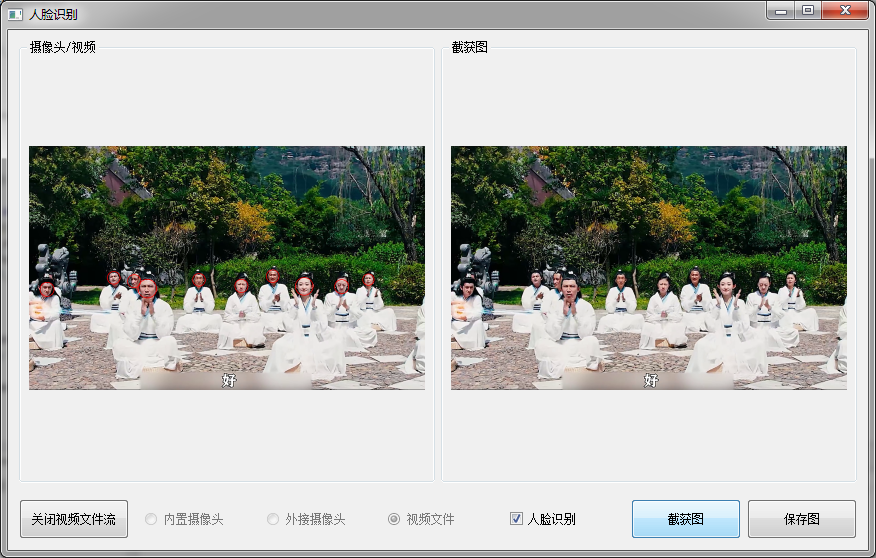
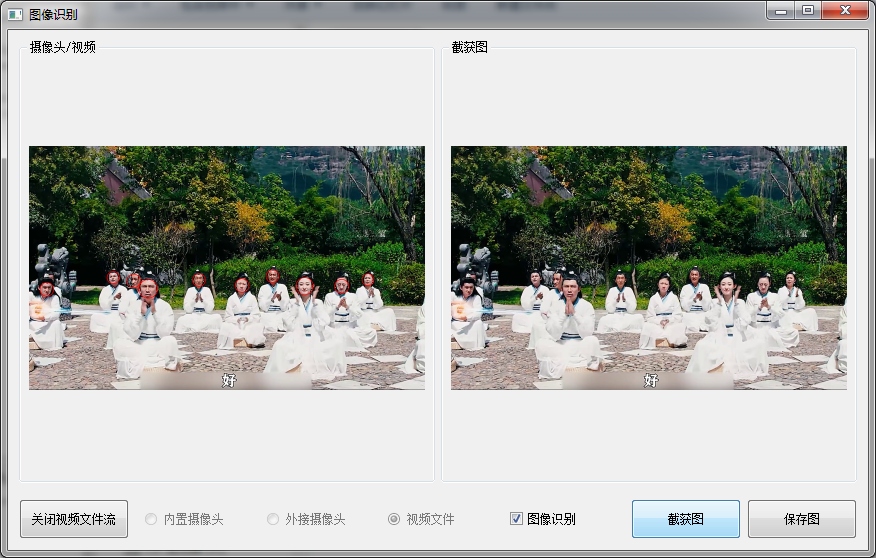
修改图像识别定位

diff --git a/FaceSight.py b/FaceSight.py
@@ -36,7 +36,7 @@ class FaceSightEngine(object):
             
         
     def faceDetector(self):
-        # 加载人脸检测器模型
+        # 加载检测器模型
         self._face_detector = cv2.CascadeClassifier('data/haarcascade_frontalface_default.xml')
         self._is_face_detector = True
         
@@ -63,8 +63,8 @@ class FaceSightEngine(object):
         if self._face_detector and self._is_face_detector:
             gray = cv2.cvtColor(self._frame, code = cv2.COLOR_BGR2GRAY)  # 转化为灰度图进行检测，减少计算量
             faces = self._face_detector.detectMultiScale(gray)  # 获得人脸检测结果
-            for x, y, w, h in faces:  # 进行for循环，将检测到的所有人脸区域绘制标注
-                cv2.circle(self._frame, (x + w // 2, y + h // 2), w // 2, [255, 0, 0], 2) # 用圆圈圈出识别人脸        
+            for x, y, w, h in faces:  # 进行for循环，将检测到的所有区域绘制标注
+                cv2.circle(self._frame, (x + w // 2, y + h // 2), w // 2, [255, 0, 0], 2) # 用圆圈圈出识别        
     
     def frame2Image(self):
     
@@ -93,7 +93,7 @@ class SightFrame(QWidget):
         
     def initUI(self):
         
-        self.setWindowTitle("人脸识别")
+        self.setWindowTitle("图像识别")
         self.resize(860, 520)
         
         group1 = QGroupBox("摄像头/视频", self)
@@ -109,7 +109,7 @@ class SightFrame(QWidget):
         self.btn_stream_type1.setChecked(True)
         self.btn_open.setFixedSize(110, 40)
         
-        self.btn_check_face = QCheckBox("人脸识别", self)
+        self.btn_check_face = QCheckBox("图像识别", self)
         
         self.btn_capture = QPushButton("截获图", self)
         self.btn_save = QPushButton("保存图", self)

diff --git a/README.md b/README.md
@@ -1,5 +1,5 @@
 # FaceSight
-摄像头、视频人脸识别
+摄像头、视频图像识别定位
 
 ## 编译环境
 python3.8 
